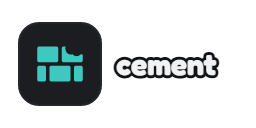
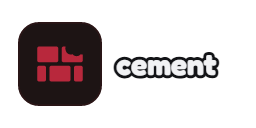
make red the default look

Changed region(s): [[0.125, 0.3438, 0.3438, 0.6562]]

diff --git a/src/ui/palette.rs b/src/ui/palette.rs
@@ -1,7 +1,7 @@
 // Copyright (C) 2026 Synaelle
 // SPDX-License-Identifier: AGPL-3.0-or-later
-// The screens' colours, picked in Settings: graphite and Miku teal, or the
-// first look's warm black and red. Any accent other than the default (SITE
+// The screens' colours, picked in Settings: Cement's warm black and red, or
+// graphite and Miku teal. Any accent other than the default (SITE
 // COLOR) puts each colour's lightness on the accent's hue, the way Baguette
 // does (kept for when the accent is picked again).
 
@@ -28,11 +28,11 @@ pub struct Palette {
 /// the looks the Settings tab offers
 #[derive(Clone, Copy, PartialEq, Debug)]
 pub enum Theme {
+    Red,  // Cement's own: warm black and red
     Miku, // graphite and Miku teal
-    Red,  // the first look: warm black and red
 }
 
-pub const THEMES: [Theme; 2] = [Theme::Miku, Theme::Red];
+pub const THEMES: [Theme; 2] = [Theme::Red, Theme::Miku];
 
 impl Theme {
     pub fn name(self) -> &'static str {
@@ -74,7 +74,7 @@ const MIKU: Palette = Palette {
     dim: 0x9a9fa8,
 };
 
-/// the first look: warm black and red, Baguette's colours
+/// warm black and red, Baguette's colours too
 const RED: Palette = Palette {
     accent: DEFAULT_ACCENT,
     on_accent: 0xffffff,

diff --git a/src/ui/gfx/mod.rs b/src/ui/gfx/mod.rs
@@ -105,8 +105,8 @@ impl Ui {
             bottom_at: 0,
             sd_free: None,
             hits: Vec::new(),
-            pal: Palette::for_accent(Theme::Miku, DEFAULT_ACCENT),
-            pal_for: (Theme::Miku, DEFAULT_ACCENT),
+            pal: Palette::for_accent(Theme::Red, DEFAULT_ACCENT),
+            pal_for: (Theme::Red, DEFAULT_ACCENT),
             info: None,
             drawn_for: (Tab::Recent, 0, None),
             picture: None,
@@ -342,7 +342,7 @@ fn help(row: Row) -> &'static str {
         Row::ScreenIdle => "Both screens go dark after a minute with no button or transfer. Any button lights them again.",
         Row::AutoOff => "Turns the 3DS off after this long with no button and no FTP use. Left and right change it.",
         Row::Update => "Looks for a newer Cement on GitHub when it starts, with the Wi-Fi on. A turns it on or off.",
-        Row::Look => "How the screens look: Miku is graphite and teal, Red is the first look. A or left and right change it.",
+        Row::Look => "How the screens look: Red is Cement's own, Miku is graphite and teal. A or left and right change it.",
     }
 }
 

diff --git a/src/settings.rs b/src/settings.rs
@@ -117,7 +117,7 @@ pub struct Prefs {
 
 impl Default for Prefs {
     fn default() -> Prefs {
-        Prefs { ftp: true, screen_idle: true, auto_off: 0, cia_info: true, protect: true, update: true, theme: Theme::Miku }
+        Prefs { ftp: true, screen_idle: true, auto_off: 0, cia_info: true, protect: true, update: true, theme: Theme::Red }
     }
 }
 

diff --git a/README.md b/README.md
@@ -24,7 +24,7 @@ L and R switch the bottom screen's tabs:
 - **Browse**: every folder of the SD card. A on an image (PNG, JPEG or BMP, like Luma's
   screenshots) shows it on the top screen
 - **Settings**: FTP login, FTP server on or off, CIA details on the top screen, file protection,
-  screens, auto off, the look (Miku teal or the first red one) and updates. A newer Cement shows
+  screens, auto off, the look (red, or Miku teal) and updates. A newer Cement shows
   up there and A installs it. The top screen tells what the selected one does
 
 The top screen shows the selected CIA's icon, title and version, and whether it's new or an update.
